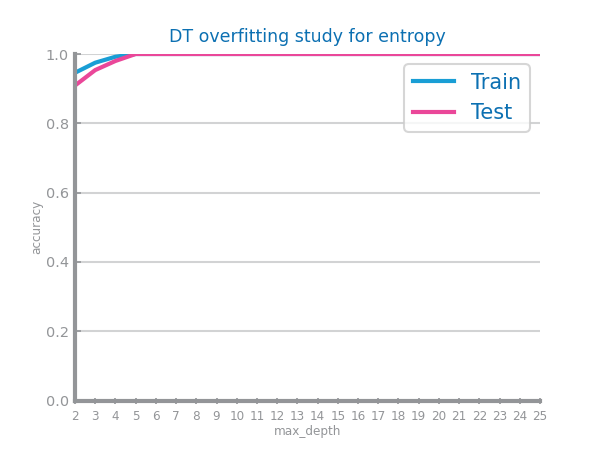
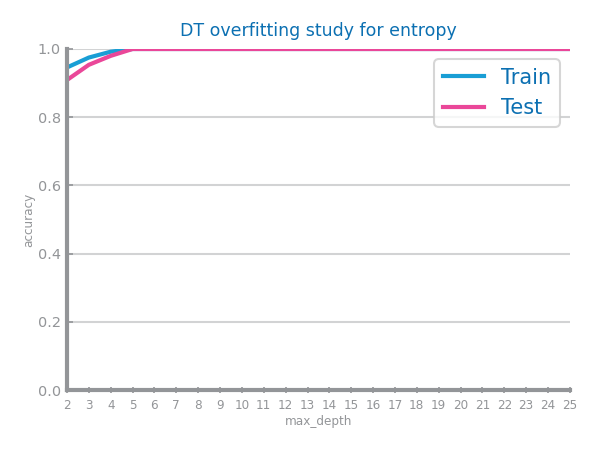
feat: finished nb, knn and dt for dataset 1.

Changed region(s): [[0.03, 0.0311, 0.96, 0.9644]]

diff --git a/classification/models/pos_covid/decision_trees.py b/classification/models/pos_covid/decision_trees.py
@@ -1,12 +1,11 @@
 from typing import Literal
-from subprocess import call
 
 import matplotlib.pyplot as plt
-from matplotlib.pyplot import imread, imshow, axis
-from sklearn.tree import export_graphviz, DecisionTreeClassifier
+from numpy import argsort
+from sklearn.tree import plot_tree, DecisionTreeClassifier
 
 from utils.dslabs_functions import trees_study, read_train_test_from_files, CLASS_EVAL_METRICS, HEIGHT, \
-    plot_evaluation_results, plot_multiline_chart
+    plot_evaluation_results, plot_horizontal_bar_chart, plot_multiline_chart
 
 train_filename = "../../data/pos_covid/processed_data/class_pos_covid_train_over.csv"
 test_filename = "../../data/pos_covid/processed_data/class_pos_covid_test.csv"
@@ -58,32 +57,47 @@ plt.clf()
 # Variables importance
 # ----------------------------
 
-# tree_filename: str = f"images/{pos_covid_file_tag}_dt_{eval_metric}_best_tree"
-# max_depth2show = 3
-# st_labels: list[str] = [str(value) for value in labels]
-#
-# dot_data: str = export_graphviz(
-#     best_model,
-#     out_file=tree_filename + ".dot",
-#     max_depth=max_depth2show,
-#     feature_names=vars,
-#     class_names=st_labels,
-#     filled=True,
-#     rounded=True,
-#     impurity=False,
-#     special_characters=True,
-#     precision=2,
-# )
-# # Convert to png
-# call(["dot", "-Tpng", tree_filename + ".dot", "-o", tree_filename + ".png", "-Gdpi=600"])
-#
-# plt.figure(figsize=(14, 6))
-# imshow(imread(tree_filename + ".png"))
-# axis("off")
-# plt.show()
-# plt.clf()
+max_depth2show = 3
+st_labels: list[str] = [str(value) for value in labels]
 
-# TODO: Finish this - Jesus
+plt.figure(figsize=(14, 6))
+plot_tree(
+    best_model,
+    max_depth=max_depth2show,
+    feature_names=vars,
+    class_names=st_labels,
+    filled=True,
+    rounded=True,
+    impurity=False,
+    precision=2,
+)
+plt.tight_layout()
+plt.savefig(f"images/{pos_covid_file_tag}_DT_{eval_metric}_best_tree.png")
+plt.show()
+plt.clf()
+
+importances = best_model.feature_importances_
+indices: list[int] = argsort(importances)[::-1]
+elems: list[str] = []
+imp_values: list[float] = []
+for f in range(len(vars)):
+    elems += [vars[indices[f]]]
+    imp_values += [importances[indices[f]]]
+    print(f"{f + 1}. {elems[f]} ({importances[indices[f]]})")
+
+plt.figure()  # TODO: Do not change this figure size until data preparation is finished
+plot_horizontal_bar_chart(
+    elems,
+    imp_values,
+    title="Decision Tree variables importance",
+    xlabel="importance",
+    ylabel="variables",
+    percentage=True,
+)
+plt.tight_layout()
+plt.savefig(f"images/{pos_covid_file_tag}_dt_{eval_metric}_vars_ranking.png")
+plt.show()
+plt.clf()
 
 # ----------------------------
 # Overfitting Study
@@ -98,7 +112,7 @@ acc_metric = "accuracy"
 for d in depths:
     clf = DecisionTreeClassifier(max_depth=d, criterion=crit, min_impurity_decrease=0)
     clf.fit(trnX, trnY)
-    prd_tst_Y= clf.predict(tstX)
+    prd_tst_Y = clf.predict(tstX)
     prd_trn_Y = clf.predict(trnX)
     y_tst_values.append(CLASS_EVAL_METRICS[acc_metric](tstY, prd_tst_Y))
     y_trn_values.append(CLASS_EVAL_METRICS[acc_metric](trnY, prd_trn_Y))
@@ -112,5 +126,7 @@ plot_multiline_chart(
     ylabel=str(eval_metric),
     percentage=True,
 )
+plt.tight_layout()
 plt.savefig(f"images/{pos_covid_file_tag}_dt_{eval_metric}_overfitting.png")
 plt.show()
+plt.clf()

diff --git a/classification/models/pos_covid/knn.py b/classification/models/pos_covid/knn.py
@@ -4,7 +4,7 @@ import matplotlib.pyplot as plt
 from sklearn.neighbors import KNeighborsClassifier
 
 from utils.dslabs_functions import read_train_test_from_files, CLASS_EVAL_METRICS, knn_study, HEIGHT, \
-    plot_evaluation_results, plot_multiline_chart, split_train_test_from_file
+    plot_evaluation_results, plot_multiline_chart
 
 train_filename = "../../data/pos_covid/processed_data/class_pos_covid_train_over.csv"
 test_filename = "../../data/pos_covid/processed_data/class_pos_covid_test.csv"
@@ -48,7 +48,9 @@ prd_trn = best_model.predict(trnX)
 prd_tst = best_model.predict(tstX)
 plt.figure()
 plot_evaluation_results(params, trnY, prd_trn, tstY, prd_tst, labels, file_tag=pos_covid_file_tag)
+plt.tight_layout()
 plt.show()
+plt.clf()
 
 # ----------------------------
 # Overfitting Study
@@ -77,5 +79,7 @@ plot_multiline_chart(
     ylabel=str(acc_metric),
     percentage=True,
 )
+plt.tight_layout()
 plt.savefig(f"images/{pos_covid_file_tag}_knn_overfitting.png")
 plt.show()
+plt.clf()

diff --git a/classification/models/pos_covid/naive_bayes.py b/classification/models/pos_covid/naive_bayes.py
@@ -28,9 +28,9 @@ fig.tight_layout()
 fig.savefig(f"images/{pos_covid_file_tag}_nb_study.png")
 fig.show()
 
-# Best alternative: BernoulliNB
+# Best alternative: BernoulliNB (better in all metrics)
 best_model, params = naive_Bayes_study(trnX, trnY, tstX, tstY, "accuracy")
-print(f"Best model: {best_model}")
+print(f"Best model: {params["name"]}")
 plt.clf()
 
 # ----------------------------
@@ -41,5 +41,6 @@ prd_trn = best_model.predict(trnX)
 prd_tst = best_model.predict(tstX)
 plt.figure()
 plot_evaluation_results(params, trnY, prd_trn, tstY, prd_tst, labels, file_tag=pos_covid_file_tag)
+plt.tight_layout()
 plt.show()
-
+plt.clf()
